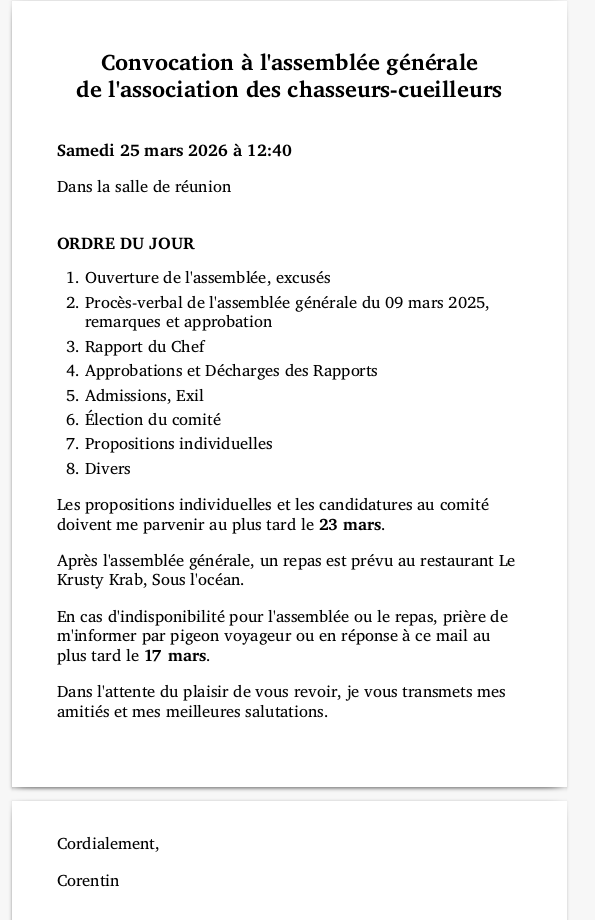
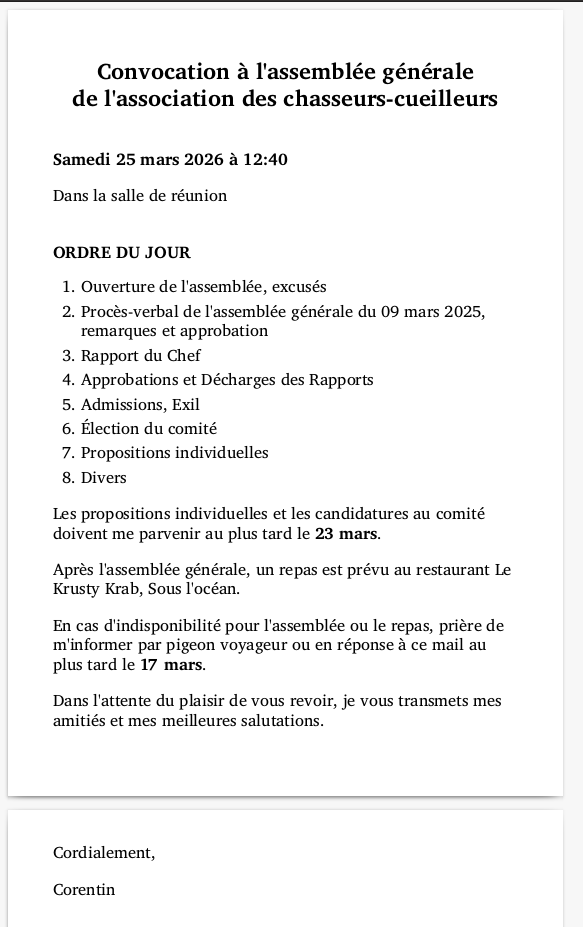
Fixed readme image

diff --git a/readme.md b/readme.md
@@ -35,4 +35,4 @@ Le programme crée un dossier correspondant à l'année actuelle, avec ( en assu
 par template, compléter par les valeurs contenues dans valConst. Vous aurez aussi un fichier.ics contenant les dates des séances de tir que vous pourrez
 importer dans un calendrier comme Google Calendar
 
-[Vous devriez normalement voir un exemple de convocation](img/pdf.png)
+![Vous devriez normalement voir un exemple de convocation](img/pdf.png)

diff --git a/template/convocation_ag.md b/template/convocation_ag.md
@@ -24,7 +24,7 @@
 2. Procès-verbal de l'assemblée générale du {{JOUR_PRECEDENT}} mars {{ANNEE_PRECEDENT}}, remarques et approbation
 3. Rapport du Chef
 4. Approbations et Décharges des Rapports
-5. Admissions, Exil
+5. Admissions, Démission
 6. Élection du comité
 7. Propositions individuelles
 8. Divers
